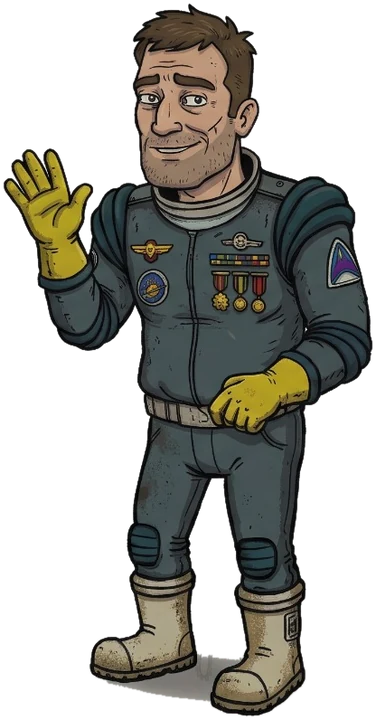
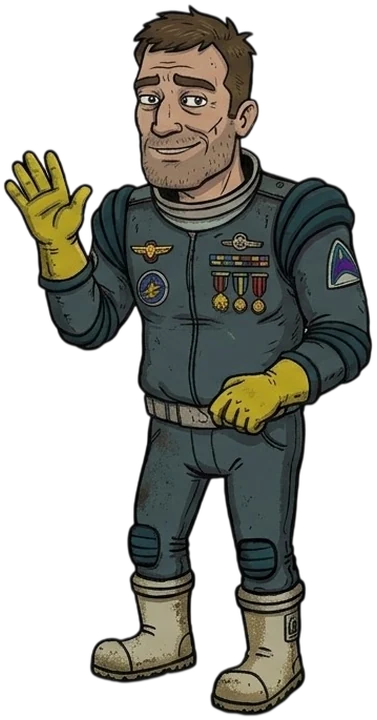
v1.5: personajes nuevos con fondo transparente (sin borde blanco), con caminata y retratos regenerados

diff --git a/tools/recortar_personajes.py b/tools/recortar_personajes.py
@@ -1,0 +1,50 @@
+# Recorta los 4 personajes de una lámina con fondo transparente y los deja como los usa el juego:
+# src/assets/characters/originales/{select_woman,select_man,skin_man,skin_woman}.png
+# (de izquierda a derecha: comandante mujer, comandante hombre, ingeniero, botánica), 720 px de alto con 3 px de margen.
+# Cada uno se recorta por su propia silueta (en la lámina se tocan los rectángulos).
+# Después: python3 tools/generar_fotogramas.py (fotogramas de caminata) y este mismo script arma los .webp y los retratos.
+# Uso: python3 tools/recortar_personajes.py lamina.png
+import sys
+import numpy as np
+from PIL import Image
+from scipy import ndimage as nd
+
+NAMES = ['select_woman', 'select_man', 'skin_man', 'skin_woman']
+H, PAD = 720, 3
+src = Image.open(sys.argv[1]).convert('RGBA')
+a = np.asarray(src)
+lab, n = nd.label(a[..., 3] > 10)
+sizes = nd.sum(np.ones_like(lab), lab, range(1, n + 1))
+big = sorted([i + 1 for i, z in enumerate(sizes) if z > 20000], key=lambda i: np.where(lab == i)[1].mean())
+assert len(big) == 4, f'se esperaban 4 personajes, hay {len(big)}'
+# píxeles semitransparentes del borde que quedaron fuera de la silueta: se asignan al personaje más cercano
+dist, (iy, ix) = nd.distance_transform_edt(lab == 0, return_indices=True)
+owner = lab[iy, ix]
+for name, i in zip(NAMES, big):
+    m = (owner == i) & (a[..., 3] > 0) & (dist <= 3)  # solo el borde suave pegado a la silueta (no motas sueltas lejanas)
+    one = a.copy(); one[~m] = 0
+    ys, xs = np.where(m)
+    crop = Image.fromarray(one[ys.min():ys.max() + 1, xs.min():xs.max() + 1])
+    h = H - 2 * PAD
+    w = round(crop.width * h / crop.height)
+    crop = crop.resize((w, h), Image.LANCZOS)
+    out = Image.new('RGBA', (w + 2 * PAD, H), (0, 0, 0, 0))
+    out.paste(crop, (PAD, PAD))
+    out.save(f'src/assets/characters/originales/{name}.png')
+    out.save(f'src/assets/characters/{name}.webp', quality=88, method=6)
+    print(name, out.size)
+
+# retratos de los comandantes (cabeza y hombros, 220 × 220) para el HUD
+for name in ['select_woman', 'select_man']:
+    im = Image.open(f'src/assets/characters/originales/{name}.png')
+    al = np.asarray(im)[..., 3] > 20
+    ys, xs = np.where(al[: int(H * 0.36)])
+    top = ys.min()
+    # columna central de la cabeza: el centro de los píxeles de la franja de la cabeza
+    head = al[top: top + int(H * 0.18)]
+    cx = int(np.where(head)[1].mean())
+    side = int(H * 0.36)
+    box = (cx - side // 2, max(0, top - 4), cx + side // 2, max(0, top - 4) + side)
+    por = im.crop(box).resize((220, 220), Image.LANCZOS)
+    por.save(f"src/assets/characters/portrait_{name.split('_')[1]}.webp", quality=88, method=6)
+    print('portrait', name, box)
